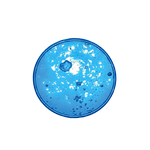
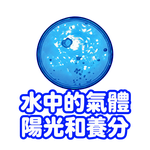
Use transparent labeled species images and allow closer dragging

diff --git a/docs/web/app.bundle.js b/docs/web/app.bundle.js
@@ -82,6 +82,14 @@ function renderEdges(){
  $('paths').replaceChildren(paths);
 }
 function place(name){const p=positions.get(name),el=elements.get(name);el.style.left=`${p.x}px`;el.style.top=`${p.y}px`;}
+function imageBounds(name){
+ const p=positions.get(name),img=elements.get(name).querySelector('img');
+ const box=img.getBoundingClientRect(),board=$('board').getBoundingClientRect();
+ // object-fit:contain can leave empty space inside the image element.
+ const ratio=img.naturalWidth&&img.naturalHeight?Math.min(box.width/img.naturalWidth,box.height/img.naturalHeight):1;
+ const w=img.naturalWidth?img.naturalWidth*ratio:box.width,h=img.naturalHeight?img.naturalHeight*ratio:box.height;
+ return {x:box.left-board.left+(box.width-w)/2,y:box.top-board.top+(box.height-h)/2,w,h};
+}
 function arrange(){
  if(drag)endDrag(true);
  const view=$('viewport');
@@ -125,7 +133,7 @@ function moveDrag(event){
 }
 function endDrag(cancelled=false){
  if(!drag)return;const action=drag;drag=null;const el=elements.get(action.name);el.classList.remove('dragging');if(el.hasPointerCapture(action.id))el.releasePointerCapture(action.id);
- const collision=action.moved&&[...positions].some(([name,p])=>name!==action.name&&overlaps(positions.get(action.name),p,4));
+ const collision=action.moved&&[...positions.keys()].some(name=>name!==action.name&&overlaps(imageBounds(action.name),imageBounds(name)));
  if(cancelled||collision){positions.set(action.name,action.original);place(action.name);renderEdges();if(collision)status('圖卡不能重疊，已回到拖曳前的位置。');}
  else if(action.moved)status(`已移動「${action.name}」，連線已跟隨更新。`);
  else select(action.name);
@@ -141,7 +149,7 @@ async function init(){
  $('loading').hidden=false;$('loading').textContent='正在載入河口圖卡…';$('shuffle').disabled=true;
  try{species=await loadSpecies();if(!species.length)throw new Error('small 資料夾中沒有 PNG 圖卡。');
   $('cards').replaceChildren();elements.clear();positions.clear();model.clear();
-  for(const item of species){const el=document.createElement('button');el.className='card';el.type='button';el.setAttribute('aria-label',`選取${item.name}`);const img=document.createElement('img');img.src=item.small;img.alt='';img.draggable=false;const name=document.createElement('span');name.className='name';name.textContent=item.name;el.append(img,name);
+  for(const item of species){const el=document.createElement('button');el.className='card';el.type='button';el.setAttribute('aria-label',`選取${item.name}`);const img=document.createElement('img');img.src=item.small;img.alt='';img.draggable=false;el.append(img);
    el.addEventListener('pointerdown',e=>beginDrag(e,item.name));el.addEventListener('pointermove',moveDrag);el.addEventListener('pointerup',e=>{if(drag?.id===e.pointerId)endDrag();});el.addEventListener('pointercancel',()=>endDrag(true));el.addEventListener('lostpointercapture',()=>{if(drag?.name===item.name)endDrag(true);});
    el.addEventListener('click',e=>{if(e.detail===0&&!drag)select(item.name);});elements.set(item.name,el);$('cards').append(el);
   }

diff --git a/docs/web/app.js b/docs/web/app.js
@@ -15,6 +15,14 @@ function renderEdges(){
  $('paths').replaceChildren(paths);
 }
 function place(name){const p=positions.get(name),el=elements.get(name);el.style.left=`${p.x}px`;el.style.top=`${p.y}px`;}
+function imageBounds(name){
+ const p=positions.get(name),img=elements.get(name).querySelector('img');
+ const box=img.getBoundingClientRect(),board=$('board').getBoundingClientRect();
+ // object-fit:contain can leave empty space inside the image element.
+ const ratio=img.naturalWidth&&img.naturalHeight?Math.min(box.width/img.naturalWidth,box.height/img.naturalHeight):1;
+ const w=img.naturalWidth?img.naturalWidth*ratio:box.width,h=img.naturalHeight?img.naturalHeight*ratio:box.height;
+ return {x:box.left-board.left+(box.width-w)/2,y:box.top-board.top+(box.height-h)/2,w,h};
+}
 function arrange(){
  if(drag)endDrag(true);
  const view=$('viewport');
@@ -58,7 +66,7 @@ function moveDrag(event){
 }
 function endDrag(cancelled=false){
  if(!drag)return;const action=drag;drag=null;const el=elements.get(action.name);el.classList.remove('dragging');if(el.hasPointerCapture(action.id))el.releasePointerCapture(action.id);
- const collision=action.moved&&[...positions].some(([name,p])=>name!==action.name&&overlaps(positions.get(action.name),p,4));
+ const collision=action.moved&&[...positions.keys()].some(name=>name!==action.name&&overlaps(imageBounds(action.name),imageBounds(name)));
  if(cancelled||collision){positions.set(action.name,action.original);place(action.name);renderEdges();if(collision)status('圖卡不能重疊，已回到拖曳前的位置。');}
  else if(action.moved)status(`已移動「${action.name}」，連線已跟隨更新。`);
  else select(action.name);
@@ -74,7 +82,7 @@ async function init(){
  $('loading').hidden=false;$('loading').textContent='正在載入河口圖卡…';$('shuffle').disabled=true;
  try{species=await loadSpecies();if(!species.length)throw new Error('small 資料夾中沒有 PNG 圖卡。');
   $('cards').replaceChildren();elements.clear();positions.clear();model.clear();
-  for(const item of species){const el=document.createElement('button');el.className='card';el.type='button';el.setAttribute('aria-label',`選取${item.name}`);const img=document.createElement('img');img.src=item.small;img.alt='';img.draggable=false;const name=document.createElement('span');name.className='name';name.textContent=item.name;el.append(img,name);
+  for(const item of species){const el=document.createElement('button');el.className='card';el.type='button';el.setAttribute('aria-label',`選取${item.name}`);const img=document.createElement('img');img.src=item.small;img.alt='';img.draggable=false;el.append(img);
    el.addEventListener('pointerdown',e=>beginDrag(e,item.name));el.addEventListener('pointermove',moveDrag);el.addEventListener('pointerup',e=>{if(drag?.id===e.pointerId)endDrag();});el.addEventListener('pointercancel',()=>endDrag(true));el.addEventListener('lostpointercapture',()=>{if(drag?.name===item.name)endDrag(true);});
    el.addEventListener('click',e=>{if(e.detail===0&&!drag)select(item.name);});elements.set(item.name,el);$('cards').append(el);
   }

diff --git a/docs/web/styles.css b/docs/web/styles.css
@@ -2,3 +2,4 @@
 #board.compact{min-height:440px}.compact .card{width:84px;height:68px;padding:3px;gap:1px}.compact .card img{height:43px}.compact .card .name{font-size:9px}
 .card{width:117.5px;height:107.5px}.card img{width:107.5px;height:70px}.compact .card{width:105px;height:85px}.compact .card img{width:95px;height:53.75px}
 body{min-height:0;overflow:hidden}#viewport{overflow:hidden}#board,#board.compact{min-width:0;min-height:0}.card,.compact .card{width:var(--card-width);height:var(--card-height);padding:var(--card-padding);gap:var(--card-padding)}.card img,.compact .card img{width:var(--image-width);height:var(--image-height)}.card .name,.compact .card .name{font-size:var(--card-font);min-height:0}
+.card,.card:hover,.card.selected,.card.pending,.card.dragging{background:transparent;border:0;border-radius:0;box-shadow:none;justify-content:center}.card.selected img{filter:drop-shadow(0 0 4px var(--blue))}.card.pending img{filter:drop-shadow(0 0 4px var(--yellow))}.card:focus-visible{outline:none}.card:focus-visible img{filter:drop-shadow(0 0 5px var(--blue))}
